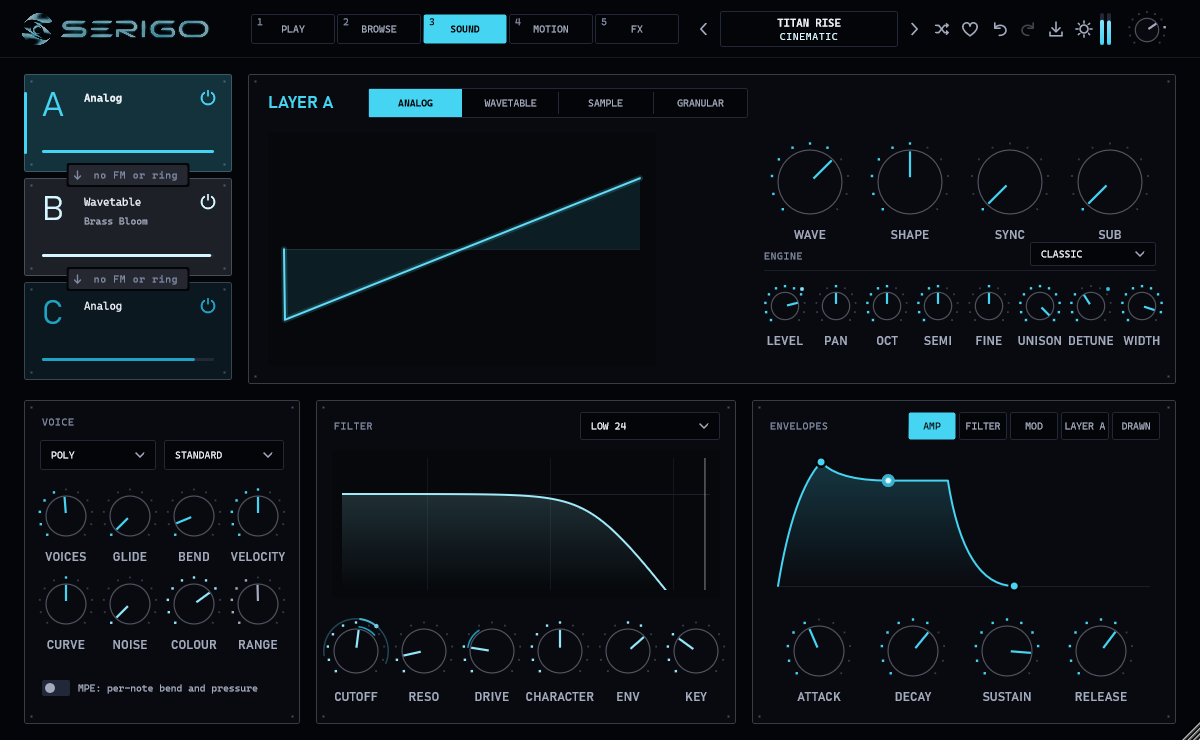
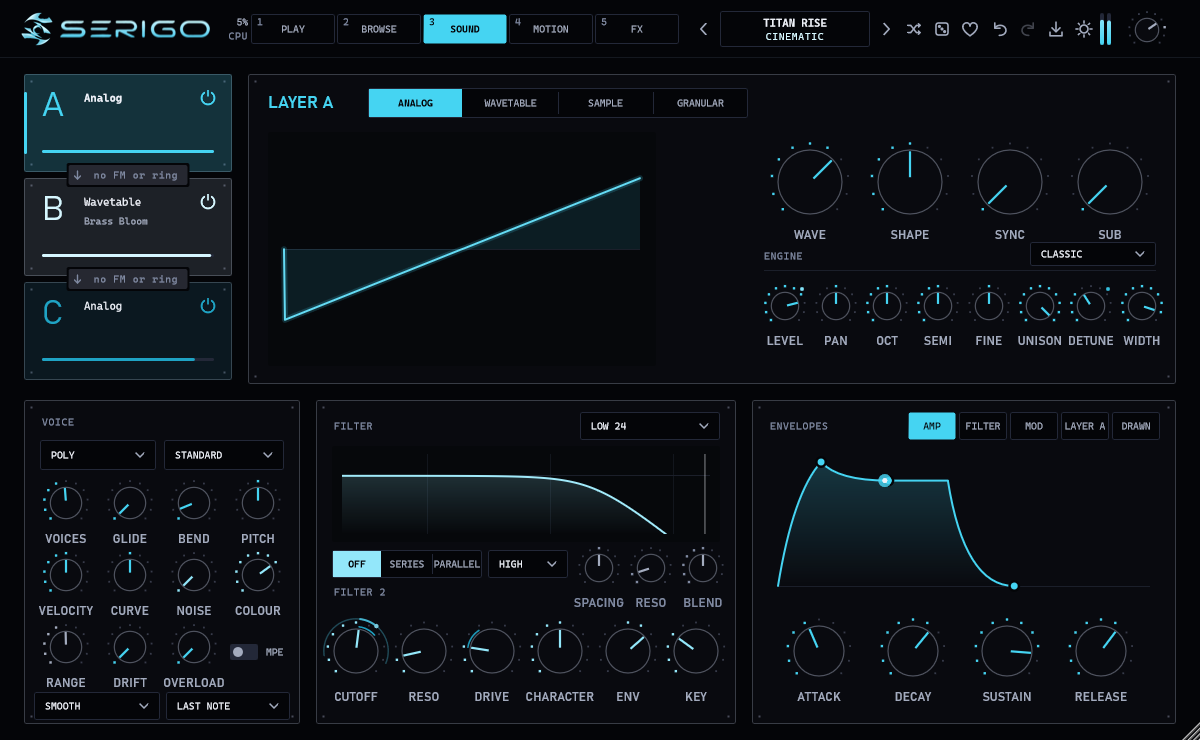
0.8.1: 1,248 presets, new screenshots and text

diff --git a/index.html b/index.html
@@ -2,8 +2,8 @@
 <html lang="en"><head><meta charset="utf-8">
 <meta name="viewport" content="width=device-width,initial-scale=1">
 <title>SERIGO | A hybrid synthesizer for Windows</title>
-<meta name="description" content="SERIGO is a hybrid synthesizer for Windows: VST3 plugin and standalone app, with 1,032 presets, four sound engines, thirteen effects and a live oscilloscope.">
-<meta property="og:title" content="SERIGO | A hybrid synthesizer for Windows"><meta property="og:description" content="SERIGO is a hybrid synthesizer for Windows: VST3 plugin and standalone app, with 1,032 presets, four sound engines, thirteen effects and a live oscilloscope.">
+<meta name="description" content="SERIGO is a hybrid synthesizer for Windows: VST3 plugin and standalone app, with 1,248 presets, four sound engines, thirteen effects and a live oscilloscope.">
+<meta property="og:title" content="SERIGO | A hybrid synthesizer for Windows"><meta property="og:description" content="SERIGO is a hybrid synthesizer for Windows: VST3 plugin and standalone app, with 1,248 presets, four sound engines, thirteen effects and a live oscilloscope.">
 <meta property="og:image" content="https://jesaias1.github.io/SERIGO/assets/play.webp"><meta name="theme-color" content="#040508">
 <link rel="icon" href="assets/icon.webp">
 <style>
@@ -76,12 +76,12 @@ footer .wrap{display:flex;flex-wrap:wrap;gap:20px 40px;justify-content:space-bet
 <header class="hero" id="top"><canvas class="bg" id="bg"></canvas><div class="wrap" style="position:relative">
 <p class="eyebrow">Hybrid synthesizer / VST3 / Standalone</p><h1>SERIGO</h1><p class="tag">Three layers per sound. Analog, wavetable, sample or granular, through one filter, thirteen effects and an oscilloscope worth looking at.</p>
 <div class="cta"><a class="btn" href="https://github.com/jesaias1/SERIGO/releases/latest"><svg viewBox="0 0 24 24" fill="none" stroke="currentColor" stroke-width="1.6" stroke-linecap="round" stroke-linejoin="round" aria-hidden="true"><path d="M12 3v12M7 10l5 5 5-5M4 20h16"/></svg> Download for Windows</a><a class="btn ghost" href="#features">See what it does</a></div>
-<div class="chips"><span>VST3 INSTRUMENT</span><span>STANDALONE</span><span>WINDOWS 10 / 11 64-BIT</span><span>v0.3.1</span></div>
+<div class="chips"><span>VST3 INSTRUMENT</span><span>STANDALONE</span><span>WINDOWS 10 / 11 64-BIT</span><span>v0.8.1</span></div>
 <div class="frame reveal"><img src="assets/play.webp" alt="The SERIGO PLAY page with the oscilloscope, macros and keyboard" width="1200" height="740"></div>
 </div></header>
-<section style="padding:48px 0 0"><div class="wrap"><div class="stats reveal"><div class="stat"><b>1,032</b><span>factory presets in 13 categories</span></div><div class="stat"><b>4</b><span>engines: analog, wavetable, sample, granular</span></div><div class="stat"><b>13</b><span>effects, in an order you choose</span></div><div class="stat"><b>6</b><span>named macros on every preset</span></div></div></div></section>
+<section style="padding:48px 0 0"><div class="wrap"><div class="stats reveal"><div class="stat"><b>1,248</b><span>factory presets in 15 categories</span></div><div class="stat"><b>4</b><span>engines: analog, wavetable, sample, granular</span></div><div class="stat"><b>13</b><span>effects, in an order you choose</span></div><div class="stat"><b>6</b><span>named macros on every preset</span></div></div></div></section>
 <section id="features"><div class="wrap"><h2 class="reveal">Built to be played, not programmed.</h2><p class="lede reveal">Every sound opens on the six knobs that matter, and every control that shapes it is one drag away.</p><div class="cards"><div class="card reveal"><svg viewBox="0 0 24 24" fill="none" stroke="currentColor" stroke-width="1.6" stroke-linecap="round" stroke-linejoin="round" aria-hidden="true"><path d="M12 3l9 5-9 5-9-5 9-5z"/><path d="M3 13l9 5 9-5"/></svg><h3>Four engines, three layers</h3><p>Analog oscillators with up to seven unison voices, sixteen wavetables, eighteen sampled instruments and a granular engine. Any layer can frequency- or ring-modulate the next.</p></div><div class="card reveal"><svg viewBox="0 0 24 24" fill="none" stroke="currentColor" stroke-width="1.6" stroke-linecap="round" stroke-linejoin="round" aria-hidden="true"><circle cx="12" cy="13" r="7"/><path d="M12 13l3-4"/><path d="M5 5l1.5 1.5M19 5l-1.5 1.5"/></svg><h3>Six macros per sound</h3><p>Each preset names its own six knobs, so the useful moves are always on the first page.</p></div><div class="card reveal"><svg viewBox="0 0 24 24" fill="none" stroke="currentColor" stroke-width="1.6" stroke-linecap="round" stroke-linejoin="round" aria-hidden="true"><path d="M3 7h4l10 10h4M3 17h4l3-3M14 10l3-3h4M18 4l3 3-3 3M18 14l3 3-3 3"/></svg><h3>Twelve variations</h3><p>One click makes a warmer, darker, wider, punchier or lo-fi version of any sound. Undo brings the original back.</p></div><div class="card reveal"><svg viewBox="0 0 24 24" fill="none" stroke="currentColor" stroke-width="1.6" stroke-linecap="round" stroke-linejoin="round" aria-hidden="true"><path d="M4 6h10M18 6h2M4 12h4M12 12h8M4 18h12M20 18h0"/><circle cx="16" cy="6" r="2"/><circle cx="10" cy="12" r="2"/><circle cx="18" cy="18" r="2"/></svg><h3>Thirteen effects</h3><p>Drive, EQ, compressor, filter, chorus, phaser, flanger, delay, reverb, stereo, multiband, crusher and tape stop.</p></div><div class="card reveal"><svg viewBox="0 0 24 24" fill="none" stroke="currentColor" stroke-width="1.6" stroke-linecap="round" stroke-linejoin="round" aria-hidden="true"><path d="M2 12h3l2-7 4 14 3-10 2 3h6"/></svg><h3>Grains in time</h3><p>Granular layers can fire their grains on the beat, with four grain shapes. Put an LFO on Position for the chopped-sample sound of house records.</p></div><div class="card reveal"><svg viewBox="0 0 24 24" fill="none" stroke="currentColor" stroke-width="1.6" stroke-linecap="round" stroke-linejoin="round" aria-hidden="true"><path d="M12 3l2 6 6 2-6 2-2 6-2-6-6-2 6-2 2-6z"/></svg><h3>Texturize</h3><p>Drop in a sample of your own and it is blended into the current sound as a granular layer.</p></div><div class="card reveal"><svg viewBox="0 0 24 24" fill="none" stroke="currentColor" stroke-width="1.6" stroke-linecap="round" stroke-linejoin="round" aria-hidden="true"><path d="M4 20l4-1 11-11-3-3L5 16l-1 4z"/><path d="M14 6l3 3"/></svg><h3>Modulation by drag and drop</h3><p>LFOs with drawn shapes, a drawn envelope, a step sequencer, an arpeggiator and MPE.</p></div><div class="card reveal"><svg viewBox="0 0 24 24" fill="none" stroke="currentColor" stroke-width="1.6" stroke-linecap="round" stroke-linejoin="round" aria-hidden="true"><rect x="3" y="6" width="18" height="12"/><path d="M8 6v7M12 6v7M16 6v7M6 13h4M14 13h4"/></svg><h3>Play from the keyboard</h3><p>Two and a half octaves on two rows, on any keyboard layout, with scale lock and chord mode.</p></div></div></div></section>
-<section id="show" style="padding-top:0"><div class="wrap"><h2 class="reveal">Five pages, no menus to dive into.</h2><p class="lede reveal">The whole instrument at default size, as it ships.</p><div class="tabs" role="tablist"><button role="tab" data-t="s0" aria-selected="true">Play</button><button role="tab" data-t="s1" aria-selected="false">Browse</button><button role="tab" data-t="s2" aria-selected="false">Sound</button><button role="tab" data-t="s3" aria-selected="false">FX</button></div><figure class="shot on" id="s0" style="margin:0"><div class="frame" style="margin:0;transform:none"><img src="assets/play.webp" alt="SERIGO Play page" loading="lazy"></div><figcaption>PLAY: the oscilloscope, layers, variations and the six macros of the loaded preset.</figcaption></figure><figure class="shot" id="s1" style="margin:0"><div class="frame" style="margin:0;transform:none"><img src="assets/browse.webp" alt="SERIGO Browse page" loading="lazy"></div><figcaption>BROWSE: search, tags, ratings and favourites across 1,032 presets.</figcaption></figure><figure class="shot" id="s2" style="margin:0"><div class="frame" style="margin:0;transform:none"><img src="assets/sound.webp" alt="SERIGO Sound page" loading="lazy"></div><figcaption>SOUND: the layers, the filter and the modulation sources.</figcaption></figure><figure class="shot" id="s3" style="margin:0"><div class="frame" style="margin:0;transform:none"><img src="assets/fx.webp" alt="SERIGO FX page" loading="lazy"></div><figcaption>FX: thirteen effects in an order you choose.</figcaption></figure></div></section>
+<section id="show" style="padding-top:0"><div class="wrap"><h2 class="reveal">Five pages, no menus to dive into.</h2><p class="lede reveal">The whole instrument at default size, as it ships.</p><div class="tabs" role="tablist"><button role="tab" data-t="s0" aria-selected="true">Play</button><button role="tab" data-t="s1" aria-selected="false">Browse</button><button role="tab" data-t="s2" aria-selected="false">Sound</button><button role="tab" data-t="s3" aria-selected="false">FX</button></div><figure class="shot on" id="s0" style="margin:0"><div class="frame" style="margin:0;transform:none"><img src="assets/play.webp" alt="SERIGO Play page" loading="lazy"></div><figcaption>PLAY: the oscilloscope, layers, the variation pad and the six macros of the loaded preset.</figcaption></figure><figure class="shot" id="s1" style="margin:0"><div class="frame" style="margin:0;transform:none"><img src="assets/browse.webp" alt="SERIGO Browse page" loading="lazy"></div><figcaption>BROWSE: a list, a gallery of cards or a map of 1,248 presets, with search, tags, ratings and favourites.</figcaption></figure><figure class="shot" id="s2" style="margin:0"><div class="frame" style="margin:0;transform:none"><img src="assets/sound.webp" alt="SERIGO Sound page" loading="lazy"></div><figcaption>SOUND: the layers, the filter and the modulation sources.</figcaption></figure><figure class="shot" id="s3" style="margin:0"><div class="frame" style="margin:0;transform:none"><img src="assets/fx.webp" alt="SERIGO FX page" loading="lazy"></div><figcaption>FX: thirteen effects in an order you choose.</figcaption></figure></div></section>
 <section id="how" style="background:var(--bg2);border-top:1px solid var(--line);border-bottom:1px solid var(--line)"><div class="wrap split"><div class="reveal"><h2>Three layers, one sound.</h2><p class="lede" style="margin-bottom:0">Each layer picks its own engine. They meet at a single filter and the effect chain, so the sound stays one instrument instead of three stacked ones. (Illustration of the idea, not a measurement.)</p></div><div class="viz reveal"><canvas id="viz"></canvas></div></div></section>
 <section id="download"><div class="wrap"><div class="dl reveal"><div><h3>Free to download and use for making music.</h3><p>The installer lets you choose the VST3 plugin, the standalone app, or both.</p><a class="btn" href="https://github.com/jesaias1/SERIGO/releases/latest"><svg viewBox="0 0 24 24" fill="none" stroke="currentColor" stroke-width="1.6" stroke-linecap="round" stroke-linejoin="round" aria-hidden="true"><path d="M12 3v12M7 10l5 5 5-5M4 20h16"/></svg> Download for Windows</a><ol class="steps" style="margin-top:34px"><li><div><b>Download the installer</b><br>From the latest release, SERIGO-...-win64-setup.exe.</div></li><li><div><b>Run it</b><br>The installer is not code-signed yet, so Windows shows &quot;Windows protected your PC&quot;: choose More info, then Run anyway.</div></li><li><div><b>Rescan plugins</b><br>In your music software. SERIGO appears as an instrument.</div></li></ol></div><div><h3 style="font-size:20px">Requirements</h3><ul><li><svg viewBox="0 0 24 24" fill="none" stroke="currentColor" stroke-width="1.6" stroke-linecap="round" stroke-linejoin="round" aria-hidden="true"><path d="M4 12l5 5L20 6"/></svg><span>Windows 10 or 11, 64-bit</span></li><li><svg viewBox="0 0 24 24" fill="none" stroke="currentColor" stroke-width="1.6" stroke-linecap="round" stroke-linejoin="round" aria-hidden="true"><path d="M4 12l5 5L20 6"/></svg><span>Any host that loads VST3 instruments (for the plugin)</span></li><li><svg viewBox="0 0 24 24" fill="none" stroke="currentColor" stroke-width="1.6" stroke-linecap="round" stroke-linejoin="round" aria-hidden="true"><path d="M4 12l5 5L20 6"/></svg><span>The standalone app needs only an audio device</span></li><li><svg viewBox="0 0 24 24" fill="none" stroke="currentColor" stroke-width="1.6" stroke-linecap="round" stroke-linejoin="round" aria-hidden="true"><path d="M4 12l5 5L20 6"/></svg><span>A VST3-only zip is on the release page if you prefer no installer</span></li></ul></div></div></div></section>
 <footer><div class="wrap"><div><b style="color:var(--text);letter-spacing:.14em">SERIGO</b><br>A hybrid synthesizer for Windows.</div><div>Closed source. Binaries only; the source code is not published.<br>&copy; 2026 Linas Jesaias. All rights reserved. <a href="LICENSE">Licence</a></div><div><a href="https://jesaias.dk">jesaias.dk</a> &middot; <a href="https://github.com/jesaias1">github.com/jesaias1</a></div></div></footer>

diff --git a/README.md b/README.md
@@ -3,7 +3,7 @@
 **A hybrid synthesizer for Windows. VST3 plugin and standalone app.**
 
 Three layers per sound, each one analog, wavetable, sample or granular, through one filter, thirteen
-effects and a live oscilloscope. 1,032 factory presets, every one with six named macros.
+effects and a live oscilloscope. 1,248 factory presets, every one with six named macros.
 
 ### [Download the installer (latest version)](https://github.com/jesaias1/SERIGO/releases/latest)
 
@@ -15,16 +15,18 @@ effects and a live oscilloscope. 1,032 factory presets, every one with six named
 
 - **Four engines, three layers.** Analog oscillators with unison up to seven voices, sixteen wavetables,
   eighteen sampled instruments and a granular engine. Any layer can frequency- or ring-modulate the next.
-- **1,032 presets in 13 categories**: Cinematic, Leads, Bass, Pads, Keys, Plucks, Arps, Textures,
-  Atmospheres, Experimental, Rage, Drums and Essentials. Search, tags, ratings, favourites and a shuffle button.
+- **1,248 presets in 15 categories**: Cinematic, Leads, Bass, Pads, Keys, Plucks, Arps, Textures,
+  Atmospheres, Experimental, Rage, Drums, Acoustic, Analog and Essentials. Search, tags, ratings, favourites and a shuffle button. Browse them as a list, as a gallery of cards, or on a map where sounds that sound alike lie together.
 - **Six macros per sound.** Each preset names its own six knobs, so the useful moves are always on the first page.
-- **Twelve variations.** One click makes a warmer, darker, wider, punchier or lo-fi version of any sound. Undo brings the original back.
+- **A variation pad.** Drag to make a sound brighter, darker, more aggressive or softer, with the sound following your hand and staying where you leave it; six chips make it warmer, wider, punchier, more spacious, lo-fi or moving. A four-corner morph pad blends four sounds. Undo brings the original back.
 - **Thirteen effects** in an order you choose: drive, EQ, compressor, filter, chorus, phaser, flanger, delay,
   reverb, stereo, multiband, crusher and tape stop.
-- **Modulation by drag and drop**: LFOs with drawn shapes, a drawn envelope, a step sequencer, an arpeggiator and MPE.
+- **Modulation by drag and drop**: LFOs with drawn shapes, a drawn envelope, a step sequencer, an arpeggiator with patterns of up to 64 steps, and MPE. A modulation web shows every route as a line you can drag.
 - **An oscilloscope worth looking at.** Five display modes, including one that traces the outline of any picture you give it.
 - **Grains in time.** Granular layers can fire their grains on the beat, with four grain shapes. Put an LFO on Position for the chopped-sample sound of house records.
-- **Texturize.** Drop in a sample of your own and it is blended into the current sound as a granular layer.
+- **Texturize and Resample.** Drop in a sample of your own and it is blended into the current sound as a granular layer, or keep the last few seconds of what you played as a new layer.
+- **A chord brain.** The chords of your key, the ones that most often come next, and a memory for four of your own.
+- **Colour themes.** Four surfaces including a light one, eleven accents, and a first-run chooser.
 - **Play it from the computer keyboard.** Two and a half octaves on two rows, on any keyboard layout, with scale lock and chord mode.
 
 ![The BROWSE page](screenshots/browse.png)
@@ -52,7 +54,7 @@ and rescan plugins in your music software.
 ## How it was built
 
 C++20 and JUCE 8. The sound engine is free of JUCE and of any allocation, lock or file access on the audio
-thread. An automated suite of more than 23,000 checks runs on every change: every preset is rendered and
+thread. An automated suite of more than 28,000 checks runs on every change: every preset is rendered and
 measured, state from earlier versions is loaded and compared, and the plugin passes pluginval at its
 strictest level.
 
